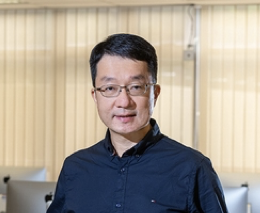
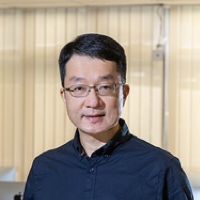
img changes

diff --git a/components/Committee/constants.js b/components/Committee/constants.js
@@ -1,12 +1,12 @@
 export const advisoryCommittee = [
   {
-    name: 'Dr.Balaraman Ravindran',
+    name: 'Dr. Balaraman Ravindran',
     title: 'Professor, Dept. of Computer Science and Engineering',
     description: 'IIT Madras, India',
     image: '/Dr.Ravindran.jpeg',
   },
   {
-    name: 'Dr.Prahlad Vadakkepat ',
+    name: 'Dr. Prahlad Vadakkepat ',
     title: 'Associate Professor, Dept. of Electrical and Computer Engineering',
     description: 'National University of Singapore, Singapore',
     image: '/Dr.Prahlad.jpeg',
@@ -34,7 +34,7 @@ export const programCommittee = [
   },
   {
     name: 'Dr. Xavier Fernando',
-    title: 'Professor, Dept. of Electrical and Computer Engineering',
+    title: 'Professor, Dept. of Electrical & Computer Engineering',
     description: 'Ryerson University, Toronto, Canada.',
     image: '/xavier.png',
   },
@@ -51,8 +51,8 @@ export const programCommittee = [
     image: '/aravind.png',
   },
   {
-    name: 'Dr.Saswati Mukherjee',
-    title: 'Professor, Dept. of Information Technology',
+    name: 'Dr. Saswati Mukherjee',
+    title: 'Professor, Dept. of Information Science & Technology',
     description: 'Anna University, Chennai, India',
     image: '/saswati.png',
   },
@@ -90,9 +90,9 @@ export const programCommittee = [
 
 export const organizingCommittee = [
   { name: 'Dr.E.M.Malathy', image: '/malathy.jpeg' },
-  { name: 'Dr.V.Sivamurugan', image: '/SeminarHall.jpg' },
-  { name: 'Dr.K.R.Uthayan', image: '/SeminarHall.jpg' },
-  { name: 'Dr.K.S.Gayathri', image: '/SeminarHall.jpg' },
+  { name: 'Dr.V.Sivamurugan', image: '/sivamurugan.jpeg' },
+  { name: 'Dr.K.R.Uthayan', image: '/uthayan.jpg' },
+  { name: 'Dr.K.S.Gayathri', image: '/gayathri.jpeg' },
 ];
 
 export const convener = [

diff --git a/components/Archive/index.js b/components/Archive/index.js
@@ -3,36 +3,31 @@ import { Chrono } from 'react-chrono';
 const items = [
   {
     title: '2021 - 2022',
-    cardTitle:
-      'International Conference on Computer, Communication, and Signal Processing',
+    cardTitle: "ICCCSP '22",
     cardSubtitle: 'Special focus on AI and Cyber Security',
     url: 'https://www.icccsp.com/2021/',
   },
   {
     title: '2020 - 2021',
-    cardTitle:
-      'International Conference on Computer, Communication, and Signal Processing',
+    cardTitle: "ICCCSP '21",
     cardSubtitle: 'Special focus on AI in Health Care',
     url: 'https://www.icccsp.com/2021/',
   },
   {
     title: '2019 - 2020',
-    cardTitle:
-      'International Conference on Computer, Communication, and Signal Processing',
+    cardTitle: "ICCCSP '20",
     cardSubtitle: 'Special focus on Data Visualization',
     url: 'https://www.icccsp.com/2020/',
   },
   {
     title: '2018 - 2019',
-    cardTitle:
-      'International Conference on Computer, Communication, and Signal Processing',
+    cardTitle: "ICCCSP '19",
     cardSubtitle: 'Special focus on Data Sciences',
     url: 'https://www.icccsp.com/2018/',
   },
   {
     title: '2017 - 2018',
-    cardTitle:
-      'International Conference on Computer, Communication, and Signal Processing',
+    cardTitle: "ICCCSP '18",
     cardSubtitle: 'Special focus on IoT',
     url: 'https://www.icccsp.com/2016/',
   },
@@ -41,7 +36,7 @@ const items = [
 export default function Archive() {
   return (
     <div className="archiveContainer" id="archive">
-      <h1 className="text-center">PREVIOUS CONFERENCE</h1>
+      <h1 className="text-center">PREVIOUS CONFERENCES</h1>
       <Chrono
         items={items}
         mode="VERTICAL_ALTERNATING"

diff --git a/components/AboutUs.js b/components/AboutUs.js
@@ -10,7 +10,7 @@ export default function AboutUs() {
       <div className="row">
         <div>
           <h1>
-            <b>About College</b>
+            <b>Our College</b>
           </h1>
           <p>
             Sri Sivasubramaniya Nadar (SSN), founded by Padma Bhushan Dr. Shiv
@@ -36,7 +36,7 @@ export default function AboutUs() {
       <div className="row row-reverse">
         <div>
           <h1>
-            <b>About IT Department</b>
+            <b>Our IT Department</b>
           </h1>
           <p>
             The Department of Information Technology was established in the year

diff --git a/components/Committee/index.js b/components/Committee/index.js
@@ -50,6 +50,8 @@ export default function Committee() {
                 <img src={item.image} alt="Card image cap" />
                 <div className="card-body">
                   <h1 className="card-title">{item.name}</h1>
+                  <p className="card-text">{item.title}</p>
+                  <p className="card-text">{item.description}</p>
                 </div>
               </div>
             ))}

diff --git a/components/Footer/index.js b/components/Footer/index.js
@@ -5,7 +5,7 @@ export default function Footer() {
       <h2>Rajiv Gandhi Salai, Kalavakkam 603110</h2>
       <h2>044 – 2441 1656 / 2441 6474</h2>
       <div className="divider" />
-      <p>&copy; 2022 www.icccsp.com</p>
+      <p>&copy; 2023 www.icccsp.com</p>
     </footer>
   );
 }

diff --git a/styles/committee.scss b/styles/committee.scss
@@ -25,6 +25,7 @@
         height: 300px;
       }
       img {
+        object-fit: cover;
         width: 150px;
         height: 150px;
         border-radius: 50%;
